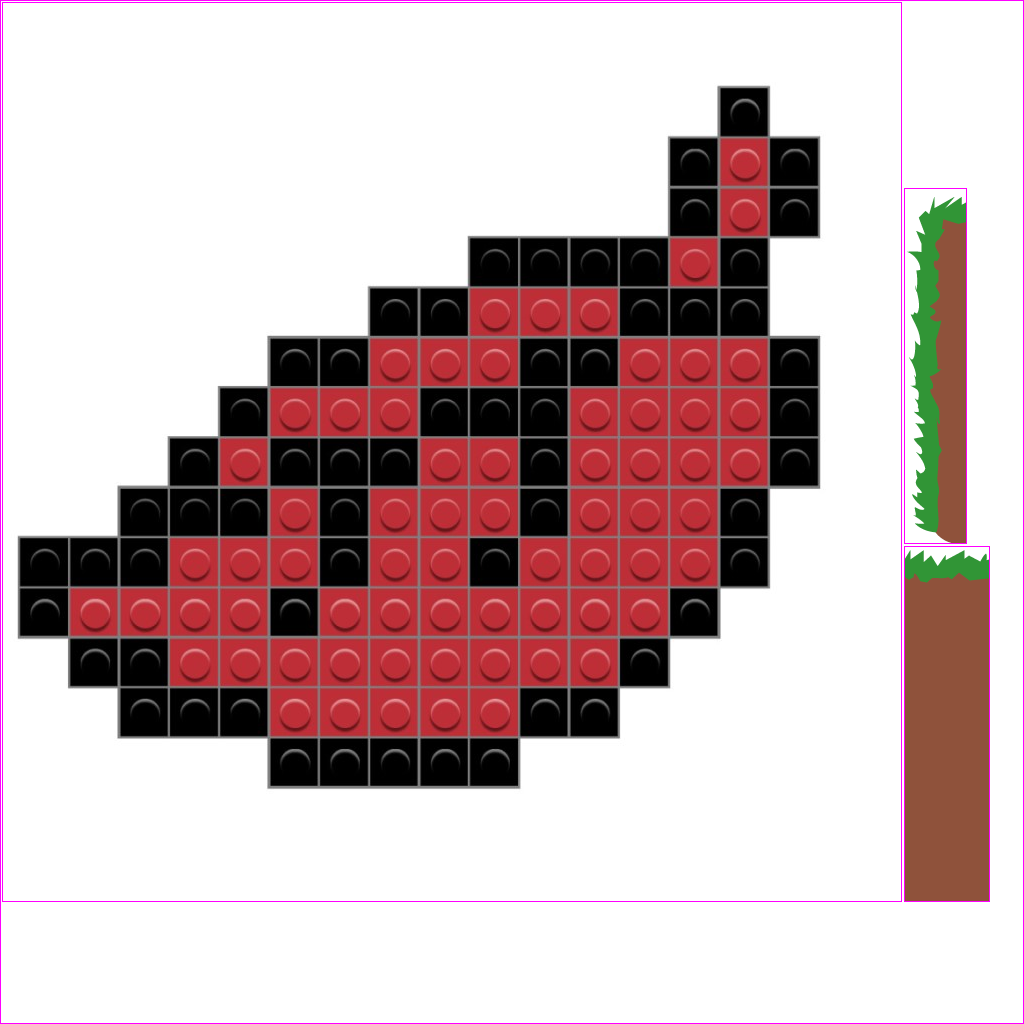
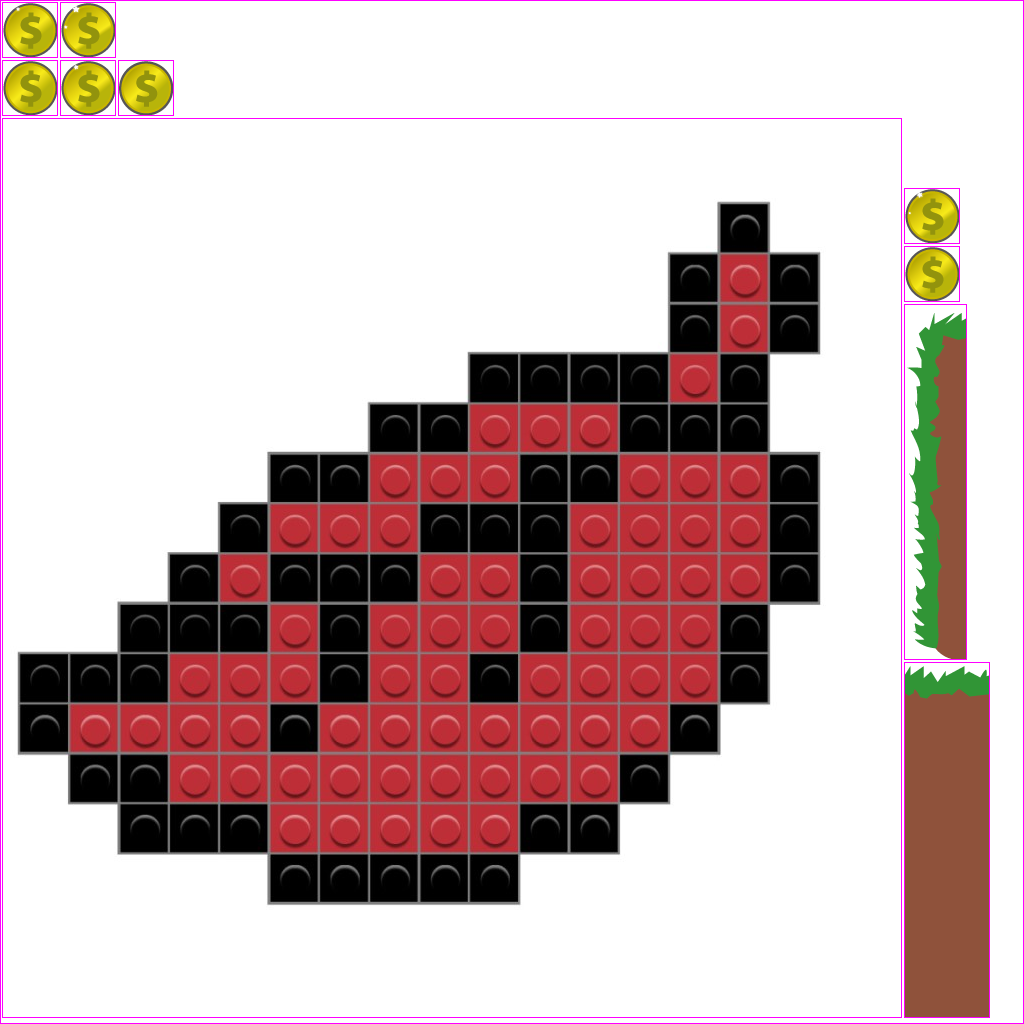
updates to proj

diff --git a/core/src/com/packtpub/mygdx/retromario/game/WorldRenderer.java b/core/src/com/packtpub/mygdx/retromario/game/WorldRenderer.java
@@ -11,8 +11,10 @@ package com.packtpub.mygdx.retromario.game;
 import com.badlogic.gdx.Gdx;
 import com.badlogic.gdx.graphics.OrthographicCamera;
 import com.badlogic.gdx.graphics.g2d.SpriteBatch;
+import com.badlogic.gdx.utils.Align;
 import com.badlogic.gdx.utils.Disposable;
 import com.packtpub.mygdx.retromario.util.Constants;
+import com.packtpub.mygdx.retromario.util.GamePreferences;
 import com.badlogic.gdx.graphics.g2d.BitmapFont;
 
 public class WorldRenderer implements Disposable {
@@ -90,17 +92,20 @@ public class WorldRenderer implements Disposable {
 		batch.begin();
 		// draw collected gold coins icon + text
 		// (anchored to top left edge)
-		//renderGuiScore(batch);
+		renderGuiScore(batch);
 		// draw extra lives icon + text
 		// (anchored to top right edge)
+		renderGuiLeafPowerup(batch);
 		renderGuiExtraLive(batch);
 		// draw FPS text
 		// (anchored to bottom right edge)
+		if (GamePreferences.instance.showFpsCounter)
 		renderGuiFpsCounter(batch);
+		renderGuiGameOverMessage(batch);
 		batch.end();
 	}
 	
-	/* renders the GUI elements, specifically the overlaying score (with font)
+	// renders the GUI elements, specifically the overlaying score (with font)
 	private void renderGuiScore (SpriteBatch batch) {
 		float x = -15;
 		float y = -15;
@@ -110,7 +115,7 @@ public class WorldRenderer implements Disposable {
 		// draws the score in the stored font
 		Assets.instance.fonts.defaultBig.draw(batch,
 				"" + worldController.score, x + 75, y + 37);
-	}*/
+	}
 	
 	// renders the GUI's extra life elements, specifically the three
 	// bunny heads to mark the amount of lives the player has
@@ -156,6 +161,63 @@ public class WorldRenderer implements Disposable {
 		// draw the FPS display
 		fpsFont.draw(batch, "FPS: " + fps, x, y);
 		fpsFont.setColor(1, 1, 1, 1); // white
+	}
+	
+	/**
+	 * Renders the game over message.
+	 * @param batch sprite batch
+	 */
+	private void renderGuiGameOverMessage (SpriteBatch batch) {
+		// cuts the camera GUI's dimensions in half to
+		// calculate the center of the camera's viewport
+		float x = cameraGUI.viewportWidth / 2;
+		float y = cameraGUI.viewportHeight / 2;
+		
+		// checks if there is a game over
+		if (worldController.isGameOver()) {
+			// grabs the game over message font and sets its color
+			BitmapFont fontGameOver = Assets.instance.fonts.defaultBig;
+			fontGameOver.setColor(1, 0.75f, 0.25f, 1);
+			
+			// draws the message
+			// HAlignment.CENTER: means to draw the font horizontally centered
+			// to the given position
+			fontGameOver.draw(batch, "GAME OVER", x, y, 1,
+					Align.center, false);
+			fontGameOver.setColor(1, 1, 1, 1);
+		}
+	}
+	
+	/**
+	 * Checks whether there is still time left for the feather
+	 * power-up effect to end. The icon is drawn in the top-left
+	 * corner under the gold coin icon. The small number next to it
+	 * displays the rounded time still left until the effect vanishes.
+	 * It'll fade back and forth when there's less than four seconds left.
+	 * @param batch sprite batch
+	 */
+	private void renderGuiLeafPowerup (SpriteBatch batch) {
+		// where to place the feather power-up display image
+		float x = -15;
+		float y = 30;
+		// checks how much time is left for the power-up
+		float timeLeftFeatherPowerup = 
+				worldController.level.mario.timeLeftLeafPowerup;
+		if (timeLeftFeatherPowerup > 0) {
+			// Start icon fade in/out if the left power-up time
+			// is less than 4 seconds. The fade interval is set
+			// to 5 changes per second.
+			if (timeLeftFeatherPowerup < 4) {
+				if (((int)(timeLeftFeatherPowerup * 5) % 2) != 0) {
+					batch.setColor(1, 1, 1, 0.5f);;
+				}
+			}
+			batch.draw(Assets.instance.leaf.base,
+					x, y, 50, 50, 100, 100, 0.35f, -0.35f, 0);
+			batch.setColor(1, 1, 1, 1);
+			Assets.instance.fonts.defaultSmall.draw(batch,
+					"" + (int)timeLeftFeatherPowerup, x + 60, y + 70);
+		}
 	}
 	
 	/*

diff --git a/core/src/com/packtpub/mygdx/retromario/game/WorldController.java b/core/src/com/packtpub/mygdx/retromario/game/WorldController.java
@@ -25,6 +25,7 @@ import com.badlogic.gdx.physics.box2d.FixtureDef;
 import com.badlogic.gdx.physics.box2d.PolygonShape;
 import com.badlogic.gdx.physics.box2d.World;
 import com.badlogic.gdx.utils.Disposable;
+import com.packtpub.mygdx.retromario.game.objects.GoldCoin;
 import com.packtpub.mygdx.retromario.game.objects.Leaf;
 import com.packtpub.mygdx.retromario.game.objects.Mario;
 import com.packtpub.mygdx.retromario.game.objects.Mario.JUMP_STATE;
@@ -127,12 +128,12 @@ public class WorldController extends InputAdapter implements Disposable{
 	};
 
 	/**
-	 * Bunny collides with a gold coin. Increase score.
+	 * mario collides with a gold coin. Increase score.
 	 * Set that gold coin's boolean value to true so
 	 * it knows it's been collected.
 	 * @param goldcoin
-	 *
-	private void onCollisionBunnyWithGoldCoin(GoldCoin goldcoin) {
+	 */
+	private void onCollisionMarioWithGoldCoin(GoldCoin goldcoin) {
 		goldcoin.collected = true;
 		score += goldcoin.getScore();
 		Gdx.app.log(TAG, "Gold coin collected");
@@ -168,16 +169,16 @@ public class WorldController extends InputAdapter implements Disposable{
 			// IMPORTANT: must do all collisions for valid
 			// edge testing on rocks
 		}
-		/* Test collision: BunnyHead <-> Gold Coins
+		// Test collision: BunnyHead <-> Gold Coins
 		for (GoldCoin goldcoin : level.goldcoins) {
 			if (goldcoin.collected)
 				continue;
 			r2.set(goldcoin.position.x, goldcoin.position.y, goldcoin.bounds.width, goldcoin.bounds.height);
 			if (!r1.overlaps(r2))
 				continue;
-			onCollisionBunnyWithGoldCoin(goldcoin);
+			onCollisionMarioWithGoldCoin(goldcoin);
 			break;
-		}*/
+		}
 		// test collsion: Bunny Head <-> Feathers
 		for (Leaf leaf  : level.leaves) {
 			if (leaf.collected)
@@ -198,6 +199,7 @@ public class WorldController extends InputAdapter implements Disposable{
 		scoreVisual = score;
 		level = new LevelOne(Constants.LEVEL_01);
 		cameraHelper.setTarget(level.mario);
+		initPhysics();
 	}
 
 	/**
@@ -347,7 +349,7 @@ public class WorldController extends InputAdapter implements Disposable{
 		}
 		// Back to Menu
 		else if (keycode == Keys.ESCAPE || keycode == Keys.BACK) {
-			//backToMenu();
+			backToMenu();
 		}
 		return false;
 	}
@@ -382,11 +384,11 @@ public class WorldController extends InputAdapter implements Disposable{
 
 	/**
 	 * save a reference to the game instance
-	 *
+	 */
 	private void backToMenu() {
 		// switch to menu screen
 		game.setScreen(new MenuScreen(game));
-	}*/
+	}
 	
 	/**
 	 * Overridden dispose method

diff --git a/core/src/com/packtpub/mygdx/retromario/game/Assets.java b/core/src/com/packtpub/mygdx/retromario/game/Assets.java
@@ -14,11 +14,14 @@ import com.badlogic.gdx.assets.AssetErrorListener;
 import com.badlogic.gdx.assets.AssetManager;
 import com.badlogic.gdx.graphics.Texture;
 import com.badlogic.gdx.graphics.Texture.TextureFilter;
+import com.badlogic.gdx.graphics.g2d.Animation;
 import com.badlogic.gdx.graphics.g2d.BitmapFont;
 import com.badlogic.gdx.graphics.g2d.TextureAtlas;
+import com.badlogic.gdx.graphics.g2d.TextureAtlas.AtlasRegion;
+import com.badlogic.gdx.graphics.g2d.TextureRegion;
+import com.badlogic.gdx.utils.Array;
 import com.badlogic.gdx.utils.Disposable;
 import com.packtpub.mygdx.retromario.util.Constants;
-import com.badlogic.gdx.graphics.g2d.TextureAtlas.AtlasRegion;
 
 
 
@@ -32,6 +35,7 @@ public class Assets implements Disposable, AssetErrorListener {
 	public AssetLeaf leaf;
 	public AssetGoomba goomba;
 	public AssetKoopa koopa;
+	public AssetGoldCoin goldCoin;
 	public AssetLevelDecoration levelDecoration;
 	public AssetFonts fonts;
 	//asset manager object
@@ -75,6 +79,7 @@ public class Assets implements Disposable, AssetErrorListener {
 				goomba = new AssetGoomba(atlas);
 				koopa = new AssetKoopa(atlas);
 				levelDecoration = new AssetLevelDecoration(atlas);
+				goldCoin = new AssetGoldCoin(atlas);
 			}
 		
 	
@@ -122,6 +127,23 @@ public class Assets implements Disposable, AssetErrorListener {
 		}
 	}
 
+	// Builds the assets for gold coins
+		public class AssetGoldCoin {
+			public final AtlasRegion goldCoin;
+			public final Animation<TextureRegion> animGoldCoin;
+			public AssetGoldCoin (TextureAtlas atlas) {
+				goldCoin = atlas.findRegion("item_gold_coin");
+				
+				//Animation: Gold Coin
+				Array<AtlasRegion> regions =
+				atlas.findRegions("anim_gold_coin");
+				AtlasRegion region = regions.first();
+				for(int i = 0; i < 10; i++)
+					regions.insert(0,region);
+				animGoldCoin = new Animation<TextureRegion>(1.0f /20.0f,regions,Animation.PlayMode.LOOP_PINGPONG); //loops animation
+			}
+		}
+	
 	/*
 	 *  This inner class contains a member variable called "head"
 	 * and will display mario

diff --git a/core/src/com/packtpub/mygdx/retromario/game/LevelOne.java b/core/src/com/packtpub/mygdx/retromario/game/LevelOne.java
@@ -8,6 +8,7 @@ import com.packtpub.mygdx.retromario.game.objects.AbstractGameObject;
 import com.packtpub.mygdx.retromario.game.objects.Rock;
 import com.packtpub.mygdx.retromario.game.objects.Mountains;
 import com.packtpub.mygdx.retromario.game.objects.Clouds;
+import com.packtpub.mygdx.retromario.game.objects.GoldCoin;
 import com.packtpub.mygdx.retromario.game.objects.Leaf;
 import com.packtpub.mygdx.retromario.game.objects.Mario;
 import com.packtpub.mygdx.retromario.game.objects.WaterOverlay;
@@ -19,6 +20,7 @@ public class LevelOne
 	// object member variables
 		public Mario mario;
 		public Array<Leaf> leaves;
+		public Array<GoldCoin> goldcoins;
 	
 		
 	public enum BLOCK_TYPE {
@@ -105,14 +107,28 @@ public class LevelOne
 					// player spawn point
 					else if
 						(BLOCK_TYPE.PLAYER_SPAWNPOINT.sameColor(currentPixel)) {
+						obj = new Mario();
+						offsetHeight = -3.0f;
+						obj.position.set(pixelX,baseHeight * obj.dimension.y + offsetHeight);
+						mario = (Mario)obj;
 					}
 					// leaf
 					else if
 						(BLOCK_TYPE.ITEM_LEAF.sameColor(currentPixel)) {
+							obj = new Leaf();
+							offsetHeight = -1.5f;
+							obj.position.set(pixelX,baseHeight * obj.dimension.y + offsetHeight);
+							// set the leaf then add it to the leaf array
+							leaves.add((Leaf)obj);
 					}
 					// gold coin
 					else if
 						(BLOCK_TYPE.ITEM_GOLD_COIN.sameColor(currentPixel)) {
+						obj = new GoldCoin();
+						offsetHeight = -1.5f;
+						obj.position.set(pixelX,baseHeight * obj.dimension.y + offsetHeight);
+						// set the gold coin then add it to the gold coins array
+						goldcoins.add((GoldCoin)obj);
 					}
 					// unknown object
 					else {

diff --git a/core/src/com/packtpub/mygdx/retromario/game/objects/GoldCoin.java b/core/src/com/packtpub/mygdx/retromario/game/objects/GoldCoin.java
@@ -1,0 +1,52 @@
+package com.packtpub.mygdx.retromario.game.objects;
+
+import com.badlogic.gdx.graphics.g2d.SpriteBatch;
+import com.badlogic.gdx.graphics.g2d.TextureRegion;
+import com.badlogic.gdx.math.MathUtils;
+import com.packtpub.mygdx.retromario.game.Assets;
+
+public class GoldCoin extends AbstractGameObject {
+	
+	private TextureRegion regGoldCoin;
+	public boolean collected;
+	
+	/*
+	 * Constructor for the GoldCoin object
+	 */
+    public GoldCoin(){
+    	init();
+    }
+    /*
+     * Initialization method for gold coin, set
+     * dimensionsa nd select assets
+     */
+    private void init(){
+    	dimension.set(0.5f, 0.5f);
+    	setAnimation(Assets.instance.goldCoin.animGoldCoin);
+    	stateTime = MathUtils.random(0.0f,1.0f);
+    	
+    	//regGoldCoin = Assets.instance.goldCoin.goldCoin;
+    	 // Set bounding box for collision detection
+    	bounds.set(0,0,dimension.x, dimension.y);
+    	collected = false;
+    }
+    /*
+     * Render method for the gold coin object
+     */
+    public void render (SpriteBatch batch){
+    	if(collected) return;
+    	
+    	TextureRegion reg = null; //init reg var
+    	reg = (TextureRegion) animation.getKeyFrame(stateTime,true); //set reg var
+    	batch.draw(reg.getTexture(), position.x, position.y,
+    			origin.x, origin.y, dimension.x, dimension.y, scale.x, scale.y,
+    			rotation, reg.getRegionX(), reg.getRegionY(),
+    			reg.getRegionWidth(), reg.getRegionHeight(), false, false);
+    }
+    /*
+     * Get score method, returns score
+     */
+    public int getScore(){
+    	return 100;
+    }
+}
